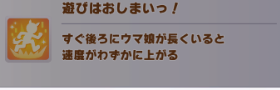
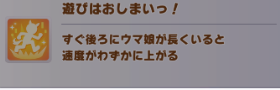
金スキルの背景色変更

diff --git a/UmaEvaluator/UmaEvaluatorDlg.cpp b/UmaEvaluator/UmaEvaluatorDlg.cpp
@@ -248,7 +248,10 @@ void CUmaEvaluatorDlg::ReadSkillTSV()
 		getline(iss, s, L'\t'); skill.SetTekiseiFromStr(s);
 		getline(iss, s, L'\t'); skill.sName = s;
 		getline(iss, s, L'\t');
-		if (s == L"") {
+		if (s != L"") {
+			skill.bGold = true;
+		}
+		else {
 			if (skill.sName.substr(skill.sName.length() - 1) == L"◎") {
 				s = skill.sName.substr(0, skill.sName.length() - 1) + L"◯";
 			}
@@ -1873,6 +1876,7 @@ void CUmaEvaluatorDlg::OnCustomdrawListCtrlSkillCandidate(NMHDR* pNMHDR, LRESULT
 	if (lpLvCustomDraw->nmcd.dwDrawStage == CDDS_ITEMPREPAINT)
 	{
 		SKILL_TYPE type = SKILL_TYPE_UNKNOWN;
+		bool bGold = false;
 		int j = 0;
 		for (int i = 0; i < m_vSkillItems.size(); ++i) {
 			if (m_vSkillItems[i].bHidden) continue;
@@ -1880,17 +1884,23 @@ void CUmaEvaluatorDlg::OnCustomdrawListCtrlSkillCandidate(NMHDR* pNMHDR, LRESULT
 			if (lpLvCustomDraw->nmcd.dwItemSpec == j) {
 				int iSkill = m_vSkillItems[i].iSkill;
 				type = m_skills[iSkill].type;
+				bGold = m_skills[iSkill].bGold;
 				break;
 			}
 			++j;
 		}
 
-		switch (type) {
-		case SKILL_TYPE_ORANGE: lpLvCustomDraw->clrTextBk = RGB(252, 195,  38); break;
-		case SKILL_TYPE_BLUE  : lpLvCustomDraw->clrTextBk = RGB( 32, 220, 253); break;
-		case SKILL_TYPE_RED   : lpLvCustomDraw->clrTextBk = RGB(254, 170, 169); break;
-		case SKILL_TYPE_GREEN : lpLvCustomDraw->clrTextBk = RGB(188, 232,  54); break;
-		default               : lpLvCustomDraw->clrTextBk = GetSysColor(COLOR_WINDOW);
+		if (bGold) {
+			lpLvCustomDraw->clrTextBk = RGB(255, 251, 198);
+		}
+		else {
+			switch (type) {
+			case SKILL_TYPE_ORANGE: lpLvCustomDraw->clrTextBk = RGB(252, 195,  38); break;
+			case SKILL_TYPE_BLUE  : lpLvCustomDraw->clrTextBk = RGB( 32, 220, 253); break;
+			case SKILL_TYPE_RED   : lpLvCustomDraw->clrTextBk = RGB(254, 170, 169); break;
+			case SKILL_TYPE_GREEN : lpLvCustomDraw->clrTextBk = RGB(188, 232,  54); break;
+			default               : lpLvCustomDraw->clrTextBk = GetSysColor(COLOR_WINDOW);
+			}
 		}
 
 		*pResult = CDRF_NEWFONT;
@@ -1914,6 +1924,7 @@ void CUmaEvaluatorDlg::OnCustomdrawListCtrlSkillObtain(NMHDR* pNMHDR, LRESULT* p
 	if (lpLvCustomDraw->nmcd.dwDrawStage == CDDS_ITEMPREPAINT)
 	{
 		SKILL_TYPE type = SKILL_TYPE_UNKNOWN;
+		bool bGold = false;
 		int j = 0;
 		for (int i = 0; i < m_vSkillItems.size(); ++i) {
 			if (m_vSkillItems[i].bHidden) continue;
@@ -1921,17 +1932,23 @@ void CUmaEvaluatorDlg::OnCustomdrawListCtrlSkillObtain(NMHDR* pNMHDR, LRESULT* p
 			if (lpLvCustomDraw->nmcd.dwItemSpec == j) {
 				int iSkill = m_vSkillItems[i].iSkill;
 				type = m_skills[iSkill].type;
+				bGold = m_skills[iSkill].bGold;
 				break;
 			}
 			++j;
 		}
 
-		switch (type) {
-		case SKILL_TYPE_ORANGE: lpLvCustomDraw->clrTextBk = RGB(252, 195, 38); break;
-		case SKILL_TYPE_BLUE  : lpLvCustomDraw->clrTextBk = RGB(32, 220, 253); break;
-		case SKILL_TYPE_RED   : lpLvCustomDraw->clrTextBk = RGB(254, 170, 169); break;
-		case SKILL_TYPE_GREEN : lpLvCustomDraw->clrTextBk = RGB(188, 232, 54); break;
-		default               : lpLvCustomDraw->clrTextBk = GetSysColor(COLOR_WINDOW);
+		if (bGold) {
+			lpLvCustomDraw->clrTextBk = RGB(255, 251, 198);
+		}
+		else {
+			switch (type) {
+			case SKILL_TYPE_ORANGE: lpLvCustomDraw->clrTextBk = RGB(252, 195,  38); break;
+			case SKILL_TYPE_BLUE  : lpLvCustomDraw->clrTextBk = RGB( 32, 220, 253); break;
+			case SKILL_TYPE_RED   : lpLvCustomDraw->clrTextBk = RGB(254, 170, 169); break;
+			case SKILL_TYPE_GREEN : lpLvCustomDraw->clrTextBk = RGB(188, 232,  54); break;
+			default               : lpLvCustomDraw->clrTextBk = GetSysColor(COLOR_WINDOW);
+			}
 		}
 
 		*pResult = CDRF_NEWFONT;

diff --git a/UmaEvaluator/CSkill.h b/UmaEvaluator/CSkill.h
@@ -62,9 +62,10 @@ public:
 	cv::Mat img_acquired;
 	cv::Mat img_acquired_title;
 	int iSubSkill;
+	bool bGold;
 
 public:
-	CSkill() : idx(0), nPt(0), nEval(0), type(SKILL_TYPE_UNKNOWN), iSubSkill(-1) {}
+	CSkill() : idx(0), nPt(0), nEval(0), type(SKILL_TYPE_UNKNOWN), iSubSkill(-1), bGold(false) {}
 
 	void SetTypeFromStr(const wstring& s) {
 		for (int i = 0; i < SKILL_TYPE_SIZE; ++i)
